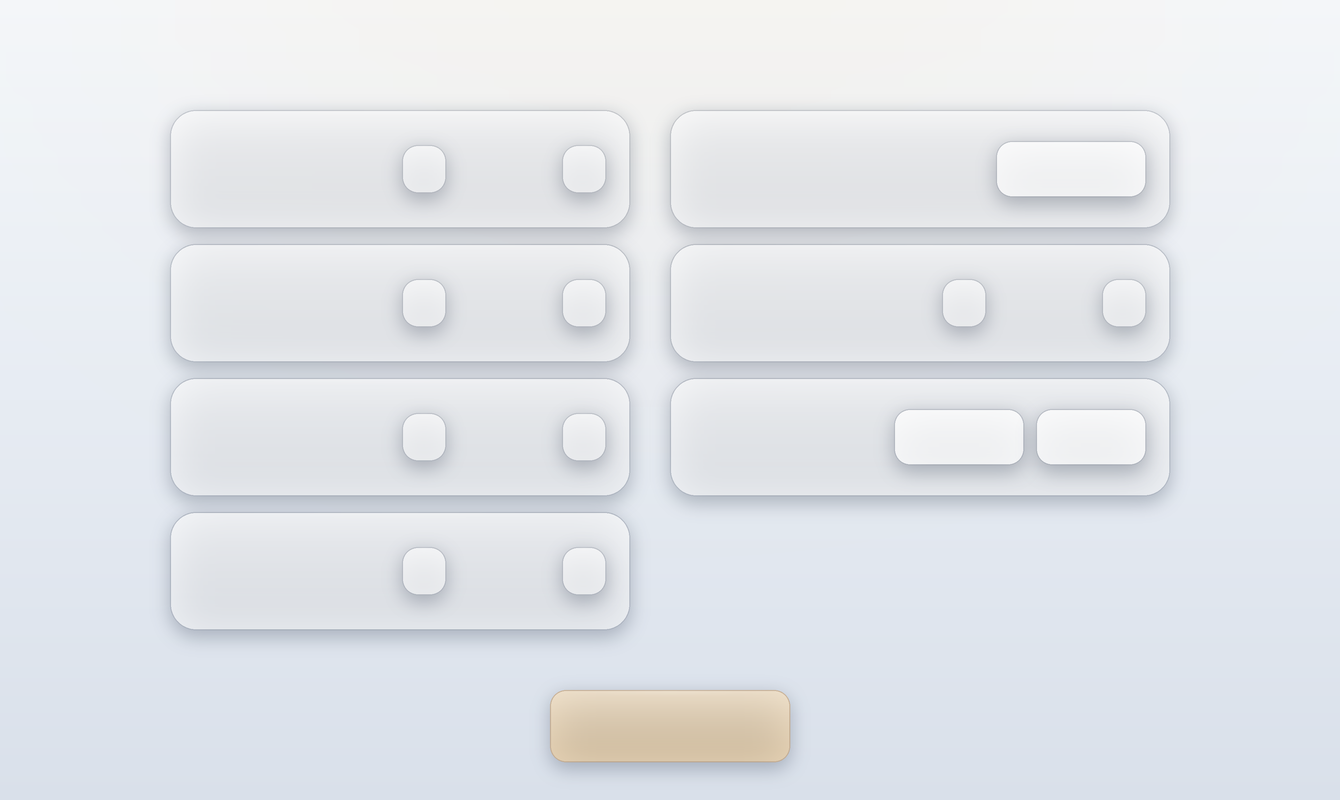
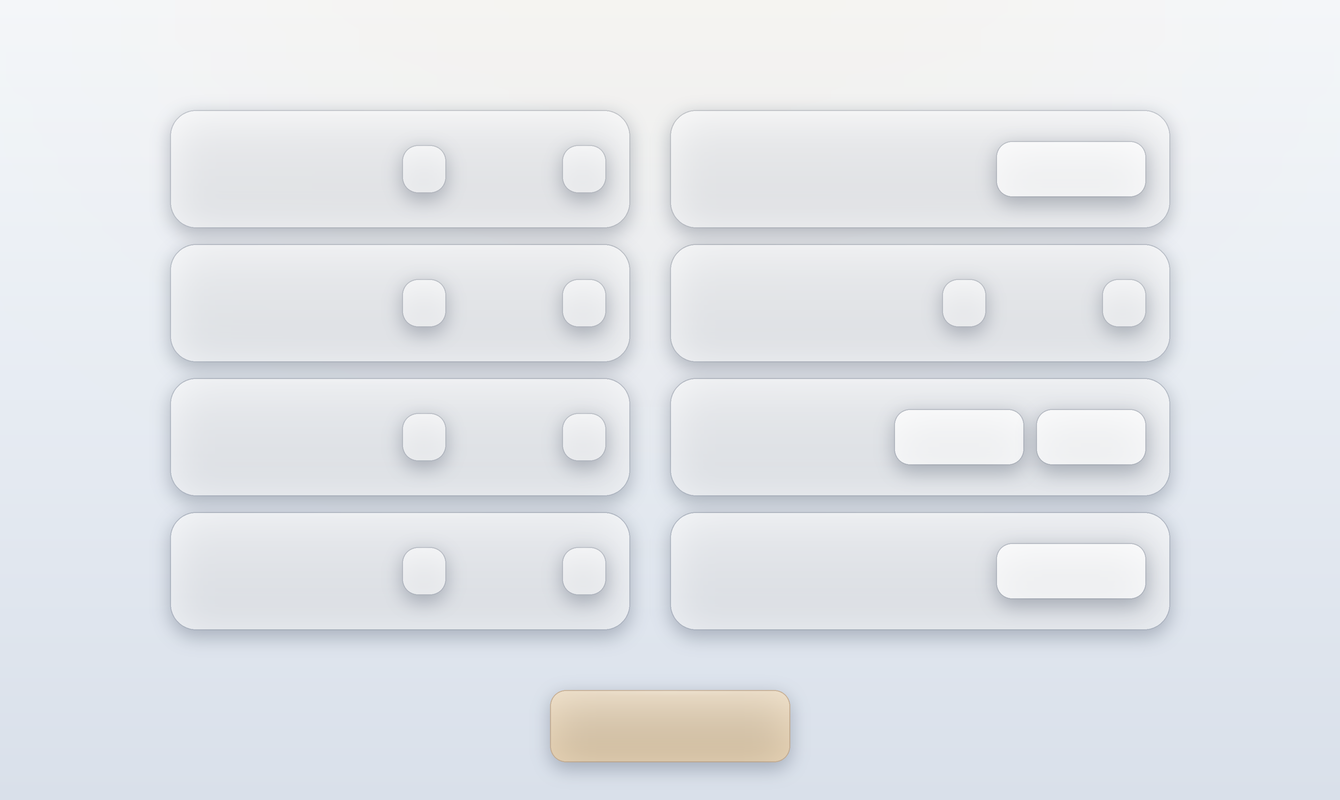
Lumen 0.41.0
Settings merge: the taskbar sliders icon folded into a DECENT APP row
on the settings page (gear and sliders side by side both read as
"settings"). Four taskbar icons remain, shifted one pitch toward the
corner; settings PNGs re-baked for both themes and resolutions.
Tablet-verified 2026-09-03 (dark theme).

Changed region(s): [[0.4896, 0.7188, 0.8873, 0.8125]]

diff --git a/README.md b/README.md
@@ -8,9 +8,14 @@ shot — all reachable without going into Settings. It is built to work with
 GrindAdvisor, DYE, Bean Scanner, ShotHistoryEditor, MaintenanceTracker
 and SDB.
 
-**Version 0.40.0 — every page built, baked and running on the tablet.**
+**Version 0.41.0 — every page built, baked and running on the tablet.**
 
-New in 0.40.0: a fifth taskbar button, the **mug**, opens the Drink Menu
+New in 0.41.0: the taskbar's **sliders** icon is gone — gear and sliders
+side by side both read as "settings". The stock app settings now open
+from a **DECENT APP** row on the Lumen settings page (fourth right-column
+slot), and the four remaining icons shifted one pitch toward the corner.
+
+New in 0.40.0: a taskbar button, the **mug**, opens the Drink Menu
 plugin's grid (Done returns straight to the home page). The water
 readout moved 72 px left to make room; nothing else changed. If the
 Drink Menu plugin is absent or disabled the tap only logs a line.
@@ -31,8 +36,8 @@ disappears the moment the bag's first real shot produces a calibration.
 
 Since 0.30.0 the top of the screen is a **taskbar**: a live clock and date
 (12/24-hour and day-month/month-day formats, chosen on the settings CLOCK
-row), the water level, and wrench / gear / sliders / moon icons — plugin
-maintenance, Lumen settings, the stock app settings, and sleep. A
+row), the water level, and mug / wrench / gear / moon icons — Drink Menu,
+plugin maintenance, Lumen settings, and sleep. A
 **maintenance dot** at the wrench turns amber or red when the
 MaintenanceTracker plugin says something is due or overdue. The old side
 panel is gone; the bean strip runs the full width, and the chart lost its
@@ -60,7 +65,7 @@ backdrop and let the shadow do the separating.
 
 | Tile | Shows | Tap |
 |---|---|---|
-| Taskbar (top) | Live clock and date, the "Lumen" wordmark, and the water left in the tank in mL (blank when no machine is connected) | The four icons: wrench = MaintenanceTracker's card list, gear = Lumen settings, sliders = the stock app settings, moon = sleep |
+| Taskbar (top) | Live clock and date, the "Lumen" wordmark, and the water left in the tank in mL (blank when no machine is connected) | The four icons: mug = Drink Menu, wrench = MaintenanceTracker's card list, gear = Lumen settings, moon = sleep |
 | Maintenance dot (at the wrench) | Amber when a maintenance item is due soon, red when one is overdue — driven by the MaintenanceTracker plugin's status; blank when all is well or the plugin is absent | — |
 | Grind | GrindAdvisor's next setting for the loaded bag, the change from the last one, method, confidence and shot count. A bag with no shots yet shows the **starting estimate** instead (GrindAdvisor 3.13.0): STARTING ESTIMATE header, `~` before the number, an Estimate chip, and which bags it was borrowed from | Opens GrindAdvisor's settings (target time, rounding, history) |
 | Shot analysis (on the grind tile) | — | Opens GrindAdvisor's result popup |
@@ -211,10 +216,11 @@ The selected setting is the large value between the pills; the other sits
 small beneath it, so both are always readable. The choice persists — whichever
 half you last steered is the one waiting next time.
 
-The right column runs **THEME**, **BAGS TO CYCLE** and **CLOCK**. The
-stock app settings (profiles, plugins, firmware) open from the taskbar's
-sliders icon, and Grind Advisor's settings from the grind card itself —
-so neither needs a row here any more.
+The right column runs **THEME**, **BAGS TO CYCLE**, **CLOCK** and
+**DECENT APP** — the last one's Open button is the door to the stock app
+settings (profiles, plugins, firmware) since 0.41.0 replaced the
+taskbar's sliders icon. Grind Advisor's settings open from the grind
+card itself, so they need no row here.
 
 *Bags to cycle* (3–10, default 5) sets how many recent bean bags the home
 strip's bag cycler offers. It is stored in `::settings(lumen_bag_count)` and

diff --git a/CHANGELOG.md b/CHANGELOG.md
@@ -4,6 +4,26 @@ Entries follow a documentation cap (about 15 lines each; longer only where a
 version added or changed a write capability). The original long-form entries
 survive unchanged in the archive snapshot of each version.
 
+## 0.41.0 - settings merge: sliders icon folded into a DECENT APP row - TABLET-VERIFIED 2026-09-03 (dark theme; four icons, Open -> stock settings -> home, no log errors)
+
+Base: 0.40.0.
+
+**Safety status: unchanged. No new writes; the row's tap runs the existing
+`::lumen::act::open_app_settings` (core `show_settings`), same as the removed icon.**
+
+- Taskbar: the sliders icon is gone -- gear and sliders side by side both read
+  as "settings" (owner report). Four tappables remain (mug 1052, wrench 1124,
+  gear 1196, moon 1268 -- shifted one pitch right, moon flush at 1324);
+  maintenance dot follows the wrench to 1174.
+- Lumen settings: DECENT APP row in the empty fourth right-column slot (512),
+  THEME-row pattern -- label, caption, neutral raised 150x56 "Open" button.
+- Baked `lumen_settings*.png` regenerated (both themes, 1340x800 + 2560x1600);
+  image-diff clean, only those four files changed. Palette samples unchanged.
+- check_skin.tcl regression rows updated (four-icon bar, CLOCK at ry3, DECENT
+  APP corner button); ALL CHECKS PASSED, no warnings.
+
+Files: skin.tcl, tools/make_backgrounds.py, tools/check_skin.tcl, 4 PNGs.
+
 ## 0.40.0 - Drink Menu taskbar button
 
 Base: 0.39.1.
